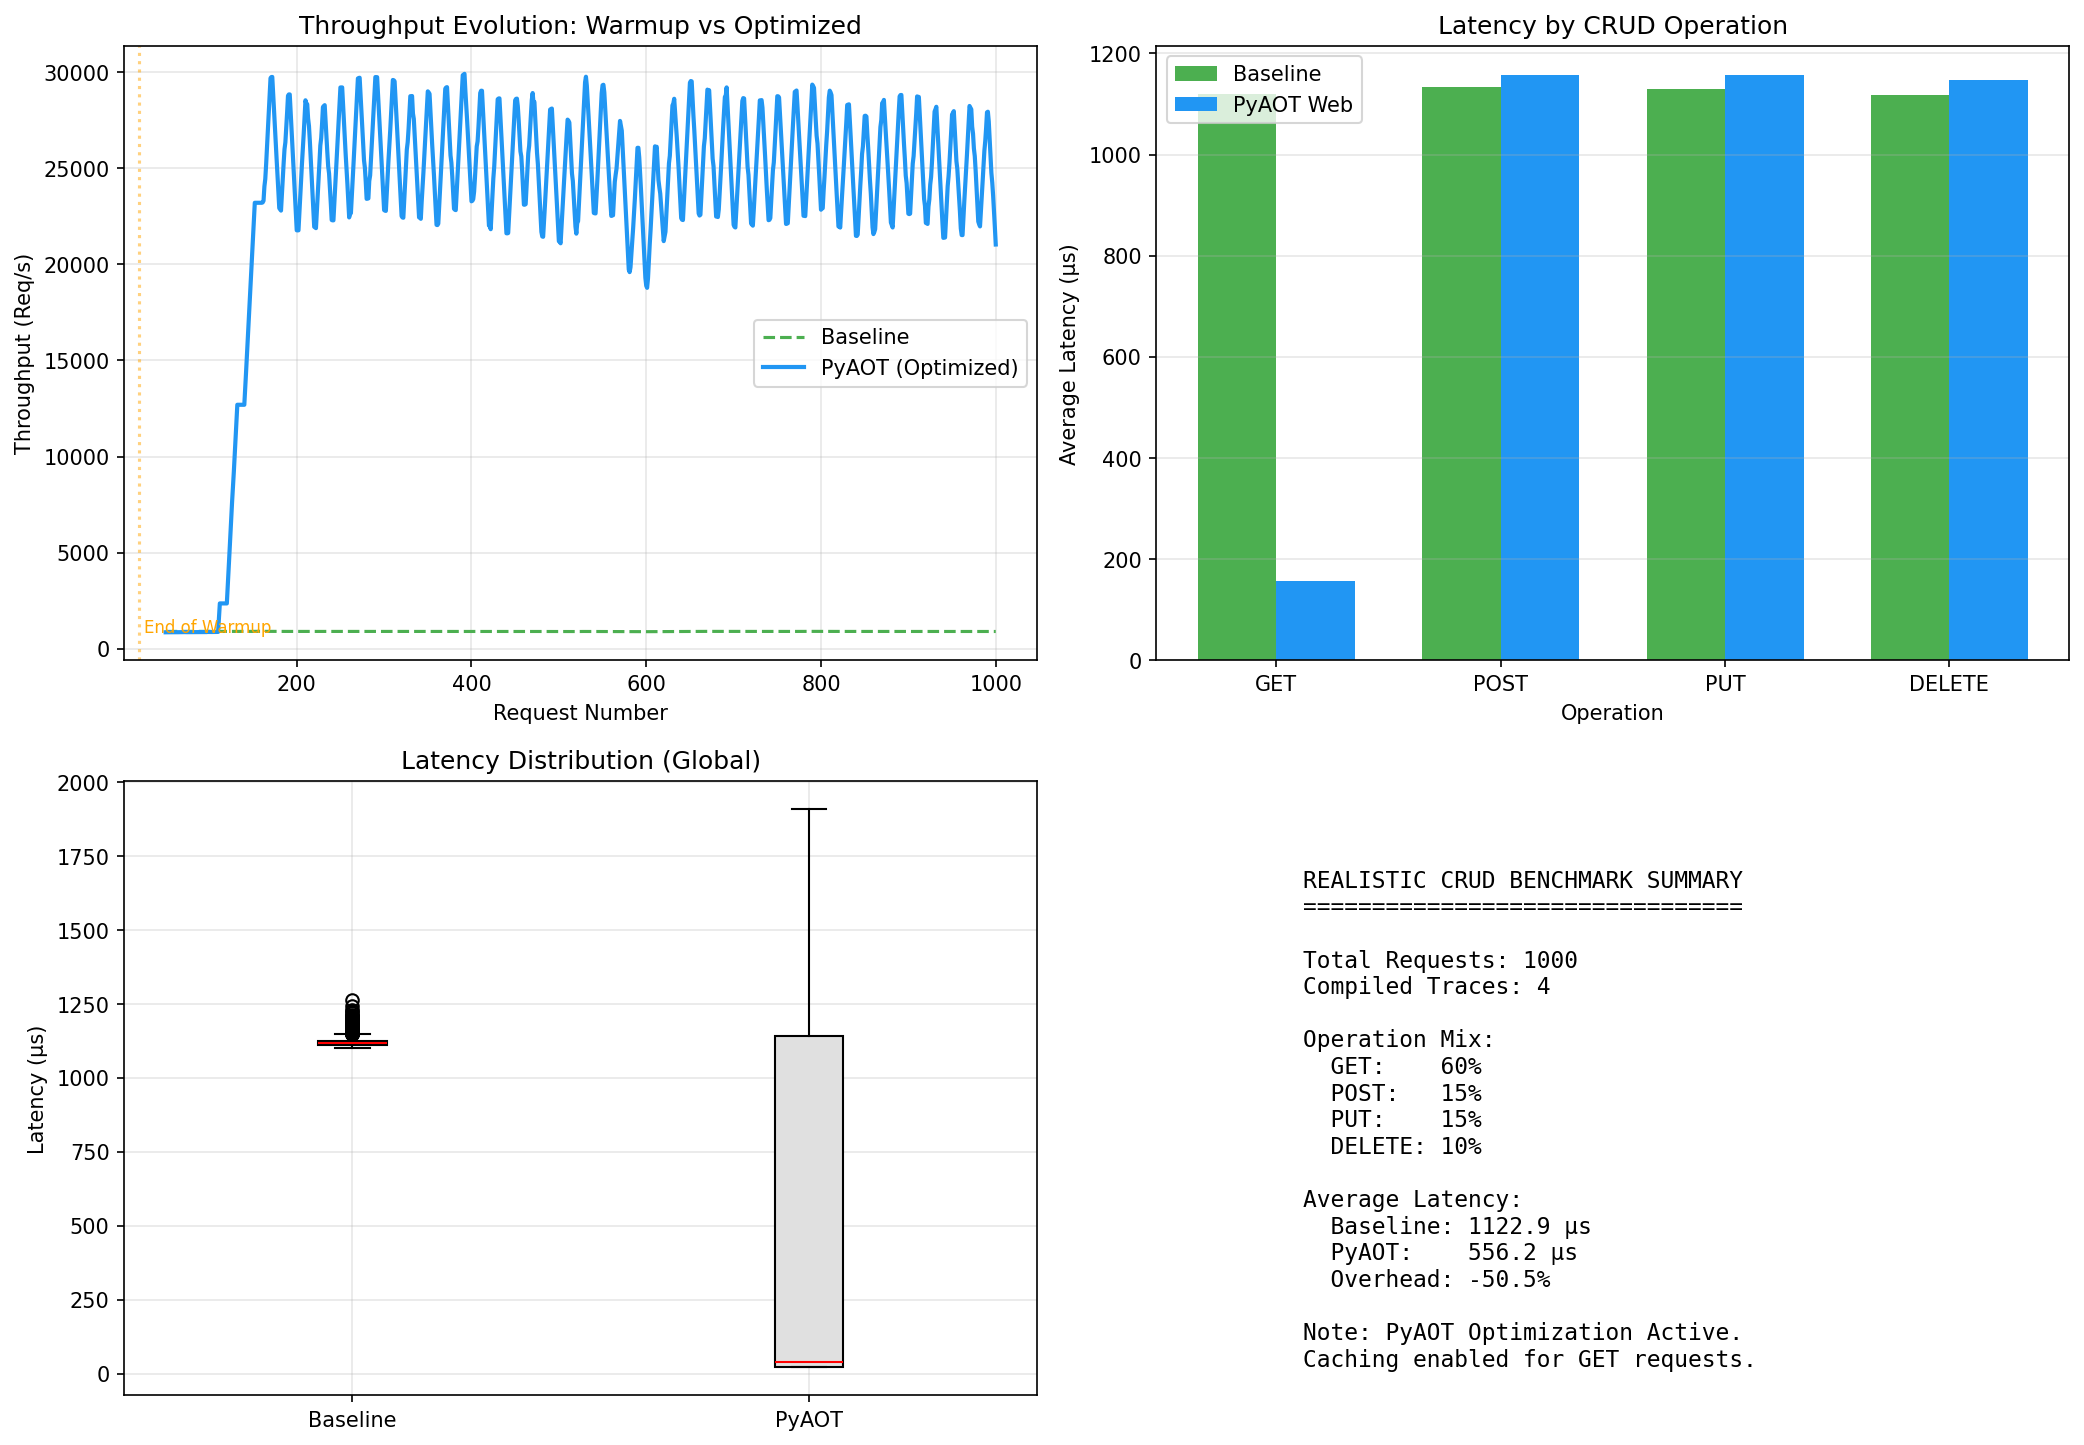
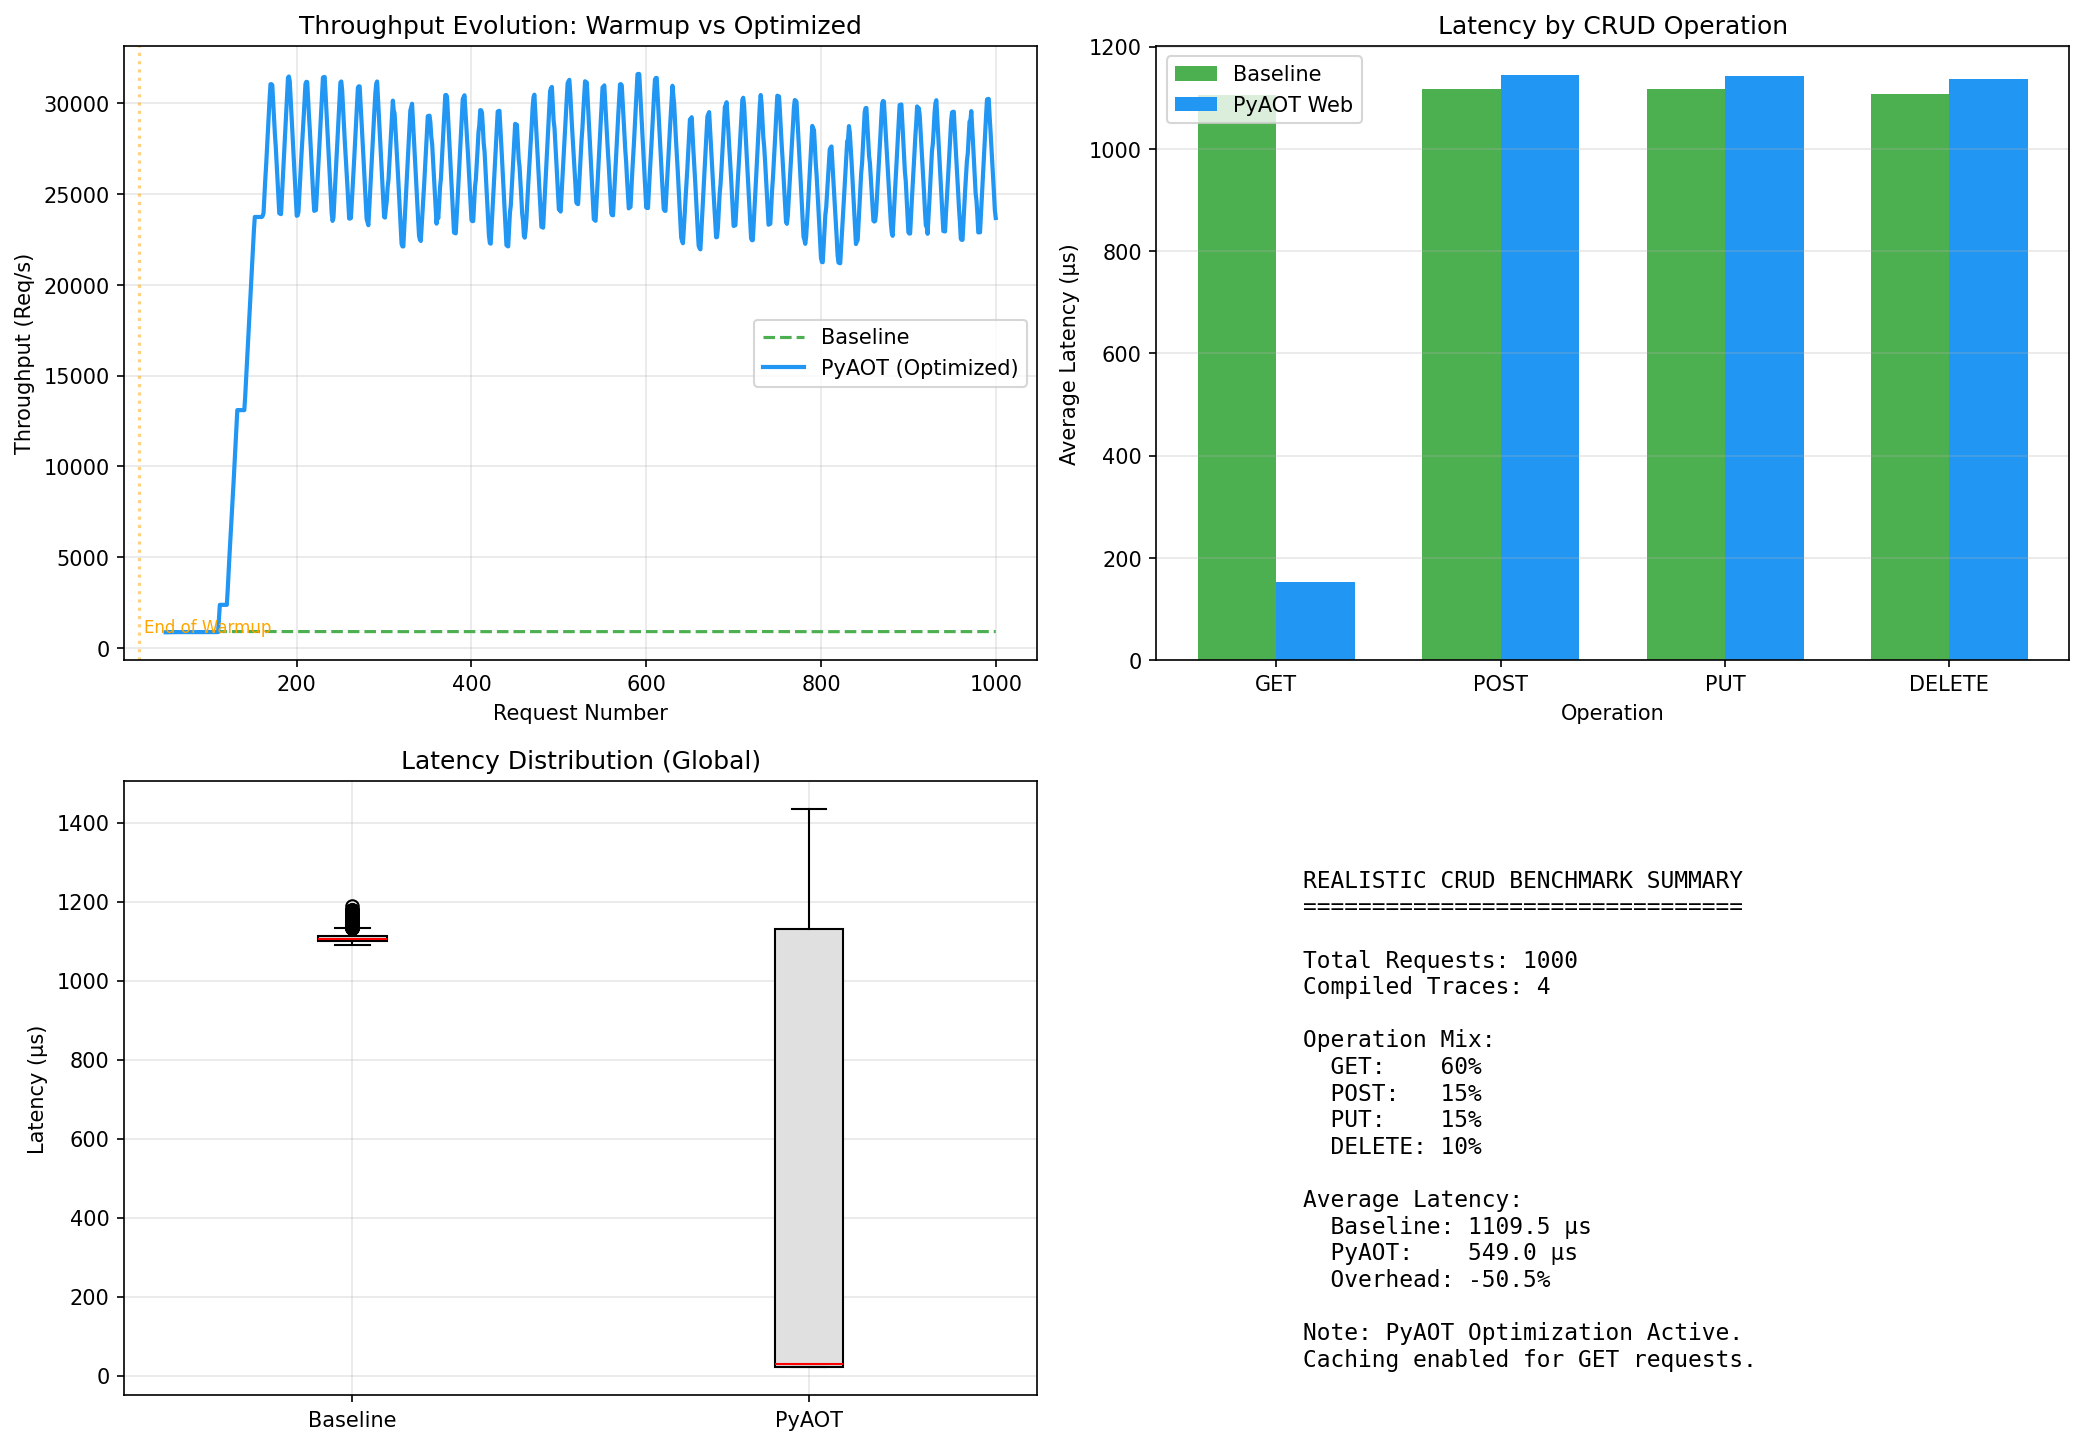
Implement Milestone 1: Branch Weights

diff --git a/pyaot/web/codegen/guards.py b/pyaot/web/codegen/guards.py
@@ -59,16 +59,51 @@ class GuardGenerator:
         self,
         builder: "llvm_ir.IRBuilder",
         deopt_targets: dict[int, Any],
+        hot_path_weight: int = 1000,
     ) -> None:
         """Initialize guard generator.
 
         Args:
             builder: LLVM IR builder.
             deopt_targets: Map of deopt_id to deopt block.
+            hot_path_weight: Weight for the hot (passing) path.
         """
         self._builder = builder
         self._deopt_targets = deopt_targets
+        self._hot_path_weight = max(1, hot_path_weight)
+        self._cold_path_weight = 1  # Deopt is rare
         self._generated_guards: list[GuardInfo] = []
+
+    def _set_branch_weights(self, br_inst: Any) -> None:
+        """Attach branch probability metadata to branch instruction."""
+        try:
+            from llvmlite import ir as llvm_ir
+            
+            # Create "branch_weights" metadata
+            # !{!"branch_weights", i32 <true_weight>, i32 <false_weight>}
+            # Note: For cbranch(cond, true_blk, false_blk), operands are weights for True/False
+            
+            # Since our guards are structured as:
+            # cbranch(cond, pass_block, fail_block)
+            # pass_block is True logic (if cond is true).
+            # So True weight = hot, False weight = cold.
+            
+            # Metadata construction in llvmlite is low-level
+            module = self._builder.module
+            ctx = module.context
+            
+            # Create metadata nodes
+            name_node = module.add_metadata([llvm_ir.MetaDataString("branch_weights")])
+            true_weight = llvm_ir.Constant(llvm_ir.IntType(32), self._hot_path_weight)
+            false_weight = llvm_ir.Constant(llvm_ir.IntType(32), self._cold_path_weight)
+            
+            metadata_node = module.add_metadata([name_node, true_weight, false_weight])
+            
+            # Attach to instruction ("prof" = 28 in some LLVM, but key is "prof")
+            br_inst.set_metadata("prof", metadata_node)
+        except Exception:
+            # Metadata attachment is optional optimization, do not crash
+            pass
 
     def generate_type_guard(
         self,
@@ -106,7 +141,8 @@ class GuardGenerator:
         # For now, always pass (will be replaced with actual type check)
         cond = self._const_i1(True)
 
-        self._builder.cbranch(cond, pass_block, fail_block)
+        br = self._builder.cbranch(cond, pass_block, fail_block)
+        self._set_branch_weights(br)
         self._builder.position_at_end(pass_block)
 
         info = GuardInfo(
@@ -144,7 +180,8 @@ class GuardGenerator:
         # Placeholder: would load and hash __dict__ keys
         cond = self._const_i1(True)
 
-        self._builder.cbranch(cond, pass_block, fail_block)
+        br = self._builder.cbranch(cond, pass_block, fail_block)
+        self._set_branch_weights(br)
         self._builder.position_at_end(pass_block)
 
         info = GuardInfo(
@@ -183,7 +220,8 @@ class GuardGenerator:
         null_ptr = llvm_ir.Constant(value_ptr.type, None)
         cond = self._builder.icmp_unsigned("!=", value_ptr, null_ptr)
 
-        self._builder.cbranch(cond, pass_block, fail_block)
+        br = self._builder.cbranch(cond, pass_block, fail_block)
+        self._set_branch_weights(br)
         self._builder.position_at_end(pass_block)
 
         info = GuardInfo(
@@ -221,7 +259,8 @@ class GuardGenerator:
         expected_val = self._const_i1(expected)
         cond = self._builder.icmp_unsigned("==", condition, expected_val)
 
-        self._builder.cbranch(cond, pass_block, fail_block)
+        br = self._builder.cbranch(cond, pass_block, fail_block)
+        self._set_branch_weights(br)
         self._builder.position_at_end(pass_block)
 
         info = GuardInfo(
@@ -259,7 +298,8 @@ class GuardGenerator:
         # Placeholder: would hash function code and compare
         cond = self._const_i1(True)
 
-        self._builder.cbranch(cond, pass_block, fail_block)
+        br = self._builder.cbranch(cond, pass_block, fail_block)
+        self._set_branch_weights(br)
         self._builder.position_at_end(pass_block)
 
         info = GuardInfo(
@@ -293,7 +333,8 @@ class GuardGenerator:
         # Placeholder: would call PyErr_Occurred and check
         cond = self._const_i1(True)
 
-        self._builder.cbranch(cond, pass_block, fail_block)
+        br = self._builder.cbranch(cond, pass_block, fail_block)
+        self._set_branch_weights(br)
         self._builder.position_at_end(pass_block)
 
         info = GuardInfo(

diff --git a/pyaot/web/codegen/lowerer.py b/pyaot/web/codegen/lowerer.py
@@ -81,7 +81,11 @@ class TraceLowerer:
 
         # Initialize context
         deopt_targets: dict[int, Any] = {}
-        guard_gen = GuardGenerator(builder, deopt_targets)
+        guard_gen = GuardGenerator(
+            builder, 
+            deopt_targets, 
+            hot_path_weight=trace.header.observation_count
+        )
         deopt_mat = DeoptMaterializer(module)
 
         self._ctx = LoweringContext(
